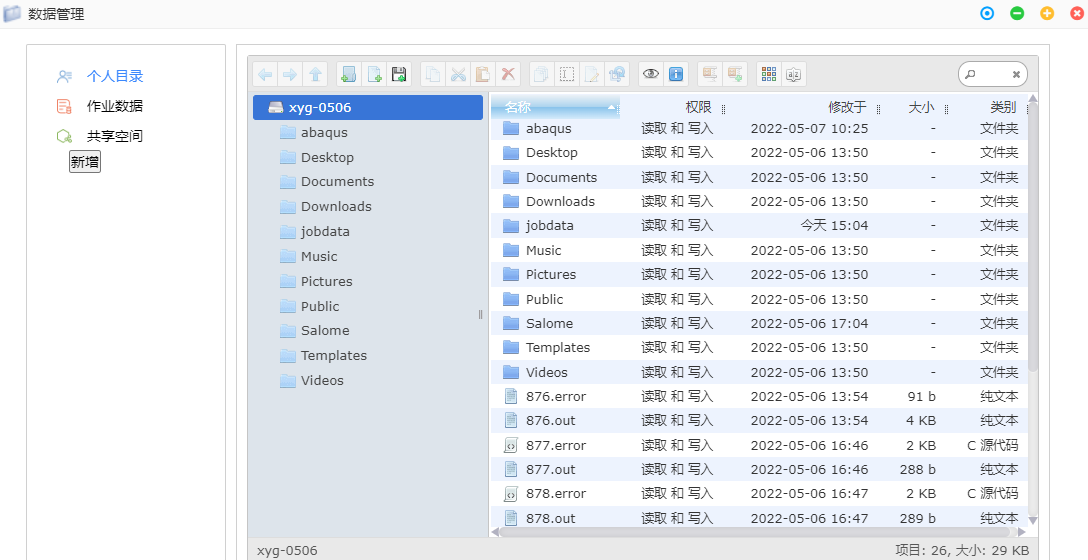
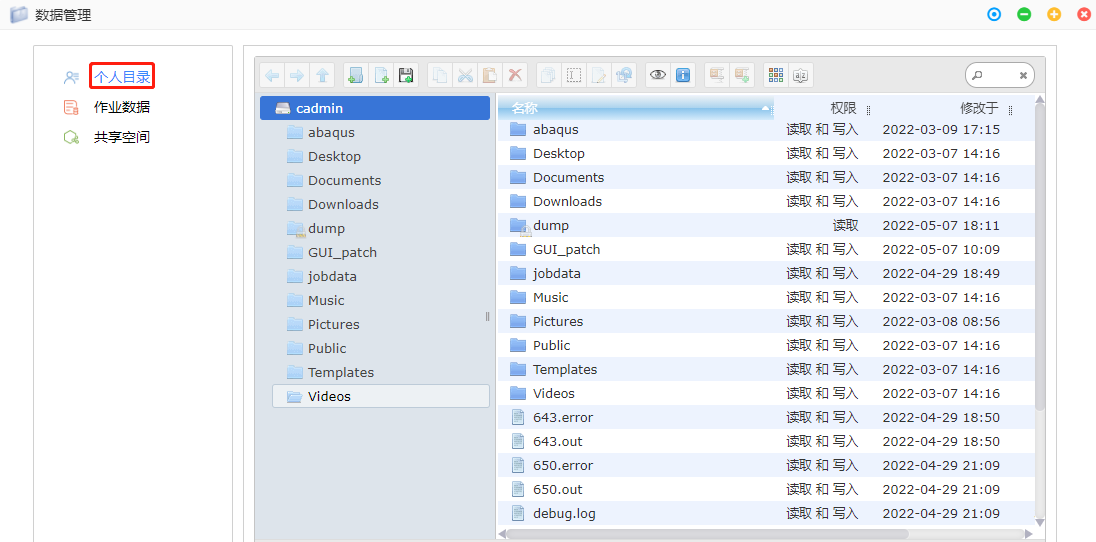
add png to fre feature!

Changed region(s): [[0.0, 0.0, 1.0, 1.0]]

diff --git a/docs/source/fre.md b/docs/source/fre.md
@@ -39,17 +39,17 @@
 
 ### 仿真计算的BATCH模式
 
-若“GUI”开关为“否”，则为BATCH模式。适用于大规模计算。
+若**GUI**开关为**否**，则为BATCH模式。适用于大规模计算。
 
 ![](figs/fre/abaqus-batch.png)
 
 ### 仿真计算的GUI模式
 
-若“GUI”开关为“是”，则为GUI模式启动。适用于进行简单的前后处理并且在GUI界面提交作业。
+若**GUI**开关为**是**，则为GUI模式启动。适用于进行简单的前后处理并且在GUI界面提交作业。
 
 ![](figs/fre/abaqus-gui.png)
 
-![](figs/hint.png)**提示** 若需要使用更高性能的前后处理，请使用[图形应用](./fre.md)下相应的软件。
+![](figs/hint.png)**提示** 若需要使用更高性能的前后处理，请使用**图形应用**下相应的软件。
 
 GUI模式下，图形界面分为VDI方式和VNC方式。前者需付费开通{ref}`远程桌面`，后者无需额外步骤。
 
@@ -91,11 +91,11 @@ GUI模式下，图形界面分为VDI方式和VNC方式。前者需付费开通{r
 
 ### 什么是作业
 
-用户在平台运行设计桌面及仿真计算应用都会生成相应的作业。为了方便用户对自己的作业进行生命周期管理，系统提供统一的作业管理视图。每个作业有唯一的作业号。
+用户在平台运行设计桌面及仿真计算应用都会生成相应的作业。为了方便用户对自己的作业进行生命周期管理，系统提供统一的作业管理视图。每个作业有唯一的**作业号**。
 
 作业的状态包括：
-- 运行
-- 等待
+- 运行：正在运行的作业。
+- 等待：等待资源的作业。
 - 等待时暂停：作业在等待时被暂停。
 - 被系统暂停：作业被调度策略暂停。
 - 被用户暂停：作业被管理员或用户暂停。
@@ -107,20 +107,28 @@ GUI模式下，图形界面分为VDI方式和VNC方式。前者需付费开通{r
 
 ### 查看作业列表
 
-在作业列表中查看系统中当前用户的所有作业的基本信息，包括作业号、作业名、所属用户、应用、队列、状态、提交时间、开始时间、结束时间、所属项目、所属资源池以及作业优先级。在列表中单击某个作业的作业号，将跳转至该作业的详情页面，展示该作业的：
+在作业列表中查看系统中当前用户的所有作业的基本信息，包括作业号、作业名、所属用户、应用、队列、状态、提交时间、开始时间、结束时间、所属项目、所属资源池以及作业优先级。在列表中单击某个作业的作业号，将跳转至该作业的详情页面：
+
+![](figs/fre/job-mgt.png)
 
 ![](figs/fre/job-details.png)
 
+**基本信息**标签页：
+
 - 作业基本信息：该作业的提交主机、运行主机、部件、作业目录、执行命令、等待原因等；
 - 作业资源信息：该作业的线程数、CPU实际时间、内存使用量、交换分区使用量等；
-- 作业数据：作业的输入文件、输出文件等。可在此区域对作业数据中的文件夹及文件进行操作。支持的操作包括（但不限于）：
-- 文件/文件夹的新建、复制、剪切、删除、创建副本、预览、查看详情、创建压缩包
+
+![](figs/Abaqus-odb.png)
+
+**作业数据**标签页：
+
+- 查看作业的输入文件、输出文件等。可在此区域对作业数据中的文件夹及文件进行操作。支持的操作包括（但不限于）：文件/文件夹的新建、复制、剪切、删除、创建副本、预览、查看详情、创建压缩包
 
 ### 查询作业
 
 ![](figs/fre/job-search.png)
 
-1. 在作业列表右上方单击查询按钮 。
+1. 在作业列表右上方单击查询按钮![](figs/inquiry.png) 。
 2. 在展开的查询条件区域中设置一个或多个查询条件，如作业号、作业名或作业的所属应用等，单击查询。作业列表中将展示查询结果。
 3. 在作业列表上方单击重置按钮，将再次按照当前的查询条件进行查询，刷新作业列表。
 
@@ -172,6 +180,8 @@ GUI模式下，图形界面分为VDI方式和VNC方式。前者需付费开通{r
 
 ### 查看作业输出
 
+![](figs/fre/job-output.png)
+
 1. 在作业列表中选择一个“运行”状态的作业，单击查看输出。
 2. 在弹出的页面上查看作业输出。
 
@@ -181,12 +191,16 @@ GUI模式下，图形界面分为VDI方式和VNC方式。前者需付费开通{r
 - 在页面顶部单击查看输出。
 - 在弹出的页面上查看作业输出。
 
+![](figs/fre/job-mgt.png)
+
+![](figs/fre/job-output2.png)
+
 ### 作业置顶、置底
 
 为了调整作业调度顺序，用户可对自己提交的且当前处于等待状态的作业进行置顶操作。
 
 1. 在作业列表中选择一个要置顶的作业，单击作业置顶。
-2. 在弹出的确认对话框内单击确定。此操作执行成功后，当该作业可被系统调度执行时，将在其所在的作业队列中被优先调度。
+2. 在弹出的确认对话框内单击确定。此操作执行成功后，当该作业可被系统调度执行时，将在其所在的作业队列中被**优先调度**。
 
 ![](figs/attention.png)**注意** 仅“等待”或“等待时暂停”状态的作业可执行此操作。
 
@@ -211,6 +225,10 @@ GUI模式下，图形界面分为VDI方式和VNC方式。前者需付费开通{r
 2. 在该作业的详情页面右上角单击**图形窗口**。
 3. 在打开的作业图形窗口中进行操作。
 
+![](figs/fre/job-mgt.png)
+
+![](figs/fre/vnc-desktop.png)
+
 ![](figs/hint.png)**提示** 也可以通过作业管理作业号右边小图标![](figs/web.png)进入。
 
 ### 重新提交作业参数
@@ -218,6 +236,10 @@ GUI模式下，图形界面分为VDI方式和VNC方式。前者需付费开通{r
 1. 在作业列表中单击要重新提交参数的作业的作业号，进入其详情页面。
 2. 在该作业的详情页面右上角单击提交参数。
 3. 在弹出的提交参数对话框上查看当前作业的参数配置，可根据需要修改参数或保持当前参数不变，单击提交。将重新生成一个作业。
+
+![](figs/fre/job-mgt.png)
+
+![](figs/fre/job-sub-para.png)
 
 ### 设置优先级
 
@@ -230,6 +252,8 @@ GUI模式下，图形界面分为VDI方式和VNC方式。前者需付费开通{r
 ### 历史作业
 
 在作业管理模块中，系统还将显示当前系统的历史作业，历史作业是系统按照设置的过期时间自动将近期作业转换而成的。在历史作业中管理员可以进行数据追溯。
+
+![](figs/fre/job-history.png) 
 
 1. 在作业管理页面左上方点击历史作业。
 2. 页面显示已成为历史作业的作业数据。展示和近期作业一样。
@@ -296,6 +320,10 @@ GUI模式下，图形界面分为VDI方式和VNC方式。前者需付费开通{r
 - 图标视图/列表视图切换、转到上一级文件夹
 - 文件共享 可将个人目录文件共享至项目或者共享空间
 
+![](figs/fre/new-file.png)
+
+![](figs/fre/right-clicked.png) 
+
 ### 共享空间
 
 请至[特色功能](./feature.md)中查看
@@ -303,26 +331,36 @@ GUI模式下，图形界面分为VDI方式和VNC方式。前者需付费开通{r
 ![](figs/app_sub.png) 
 ### 应用订阅
 
+![](figs/fre/app-store.png) 
+
 1. 应用商城分上下两部分，上半部分为用户已订阅应用，下部分为商城全部应用
 2. 用户根据应用简介选择合适应用，点击“申请订阅”按钮，完成应用订阅申请
 3. 后台管理员收到订阅申请，审核通过后会显示在已订阅应用
 
-![](figs/fre/app-store.png) 
+![](figs/fre/apply-book.png) 
 
 ### 应用退订
 
 1. 应用商城分上下两部分，上半部分为用户已订阅应用，下部分为商城全部应用
 2. 用户选择需要退订的应用，单击 退订按钮，应用退订成功
 3. 应用退订后，再次申请订阅需要重新审核，请谨慎退订
+
+![](figs/fre/unapply-book.png) 
 ### 应用评价
 
 1. 右击桌面已订阅应用，选择软件点评。
 2. 软件评分界面分为上下两部分，上半部分为应用的评价情况，下半部分为用户点评区域。
 3. 输入点评内容，选项评分等级，点击提交。
 
+![](figs/fre/evaluate.png) 
+
+![](figs/fre/evaluate-sub.png) 
+
 ### 应用文档下载
 
 在应用商城上半部分“已订阅应用”部分点击右侧“查看”，即可查看管理员发布的应用文档（不局限于应用使用文档，还可能包括仿真应用测试文件等）。
+
+![](figs/fre/doc-download.png) 
 
 
 

diff --git a/docs/source/chapter_one.md b/docs/source/chapter_one.md
@@ -26,6 +26,7 @@
 “神工坊”高性能仿真平台是专为工业制造领域提供高性能工业仿真和仿真软件开发服务在线平台。平台以国家超级计算无锡中心丰富的软件资源和海量的硬件资源为支撑，为用户提供了一个本地“PC”式体验的高性能仿真平台，平台基于高效、低延迟远程传输协议和GPU渲染等方式，给用户提供流畅、清晰的工业仿真软件原生界面操作体验的同时，保留了超算强大算力的支撑。另外，平台支持多级用户管理功能，方便企业整体入驻，为企业提供多级部门管理、在线共享空间、在线分享图形界面等功能，助力企业在线协同研发，提高设计研发效率。
 面向开发用户，平台提供自研软件在线编译、运行服务，并支持自研软件发布至平台应用商城，供平台其他用户订阅使用，并能获取用户使用反馈，协助软件迭代升级。
 
+
 ## 概念及术语
 在您开始使用”神工坊“高性能仿真平台V2.0用户门户前，请先了解下表中所描述的概念和术语。
 

diff --git a/docs/source/feature.md b/docs/source/feature.md
@@ -13,6 +13,14 @@
 
 对于企业用户，同一组织的成员能够创建共享空间分享文件给其他人。文件的权限可以灵活设置。
 
+1. 在数据管理窗口中点击共享空间 > 新增
+2. 在共享设置窗口中设置：共享组名称、组织用户、用户权限
+3. 点击提交
+
+![](figs/feature/share_add.png)
+
+![](figs/feature/share_set.png)
+
 ## 在线协同
 
 对于企业用户，在平台有多个用户，可以在线共享图形界面（仅支持VNC模式）
@@ -24,4 +32,6 @@
 
 ## 私有应用
 
-用户可以发布自己的应用。可供自己/组织成员/其他人使用应用。
+用户可以发布自己的应用。可供本人、组织成员甚至其他人使用应用。
+
+![](figs/feature/personal_app.png)

diff --git a/docs/source/FAQ.md b/docs/source/FAQ.md
@@ -1,5 +1,8 @@
 # 第6章 FAQ
 ## 文件、目录命名有什么要求？
+
 文件、目录的命名不要带特殊字符（包括空格），可能会影响软件运行。建议使用A1_B2这样的命名方式。
 
-## 不同的队列有什么区别
+## 不同的队列有什么区别?
+
+队列一般

diff --git a/docs/source/chapter_two.md b/docs/source/chapter_two.md
@@ -43,6 +43,9 @@ b）点击登录，即可进入用户门户
 
 ![](figs/userportal.png)
 
+![](figs/fre/desktop-1.png)
+
+
 ### 用户退出
 
 a）单击topbar 右上角 用户管理 按钮，下拉框选择 退出，弹窗 单击 确定按钮，完成用户的退出
